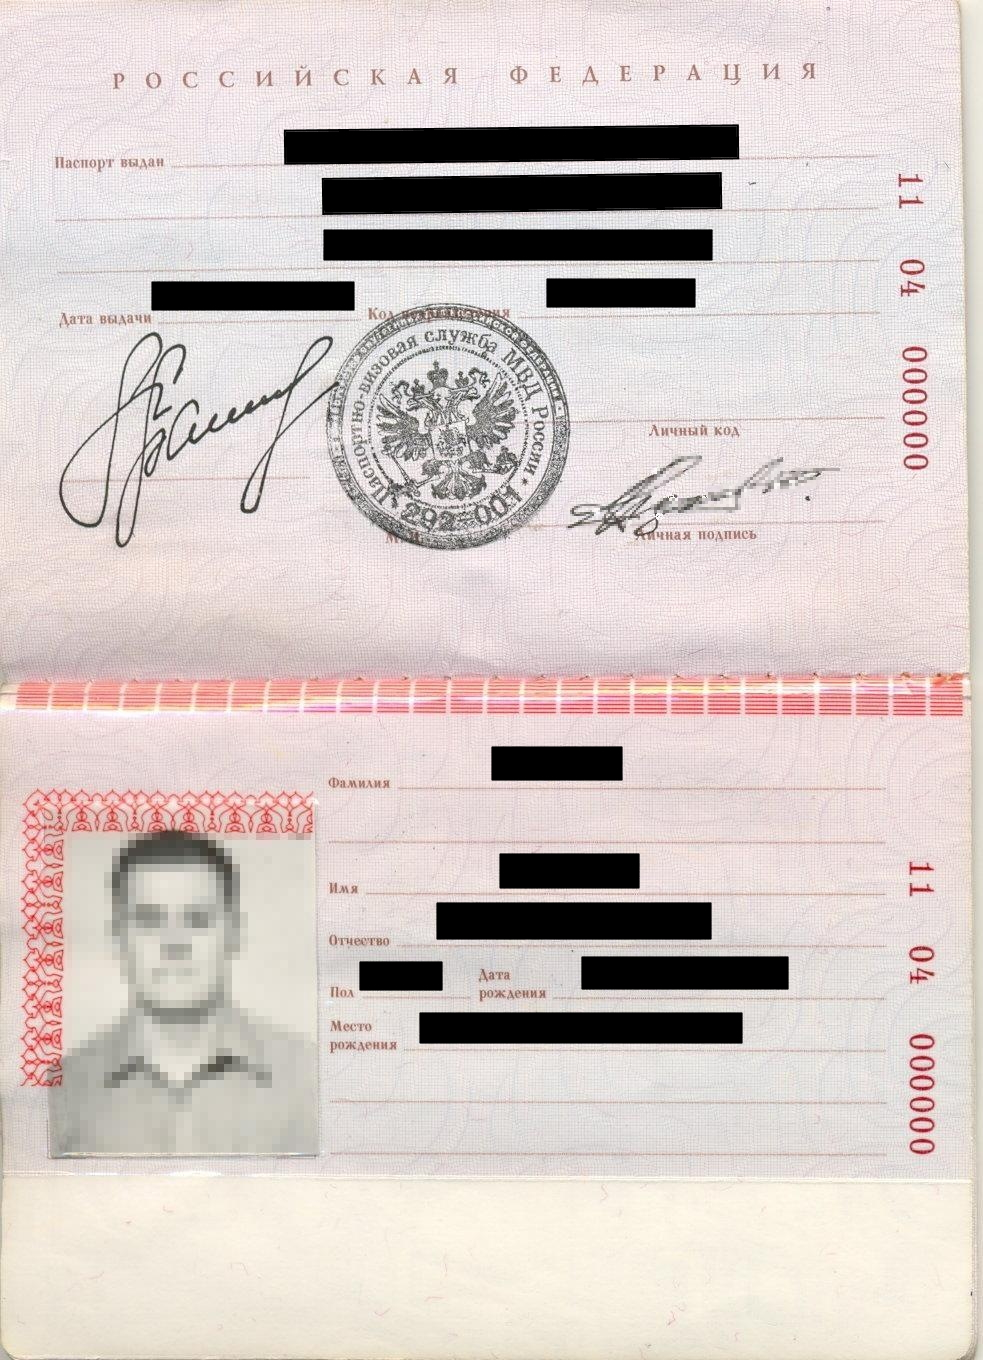
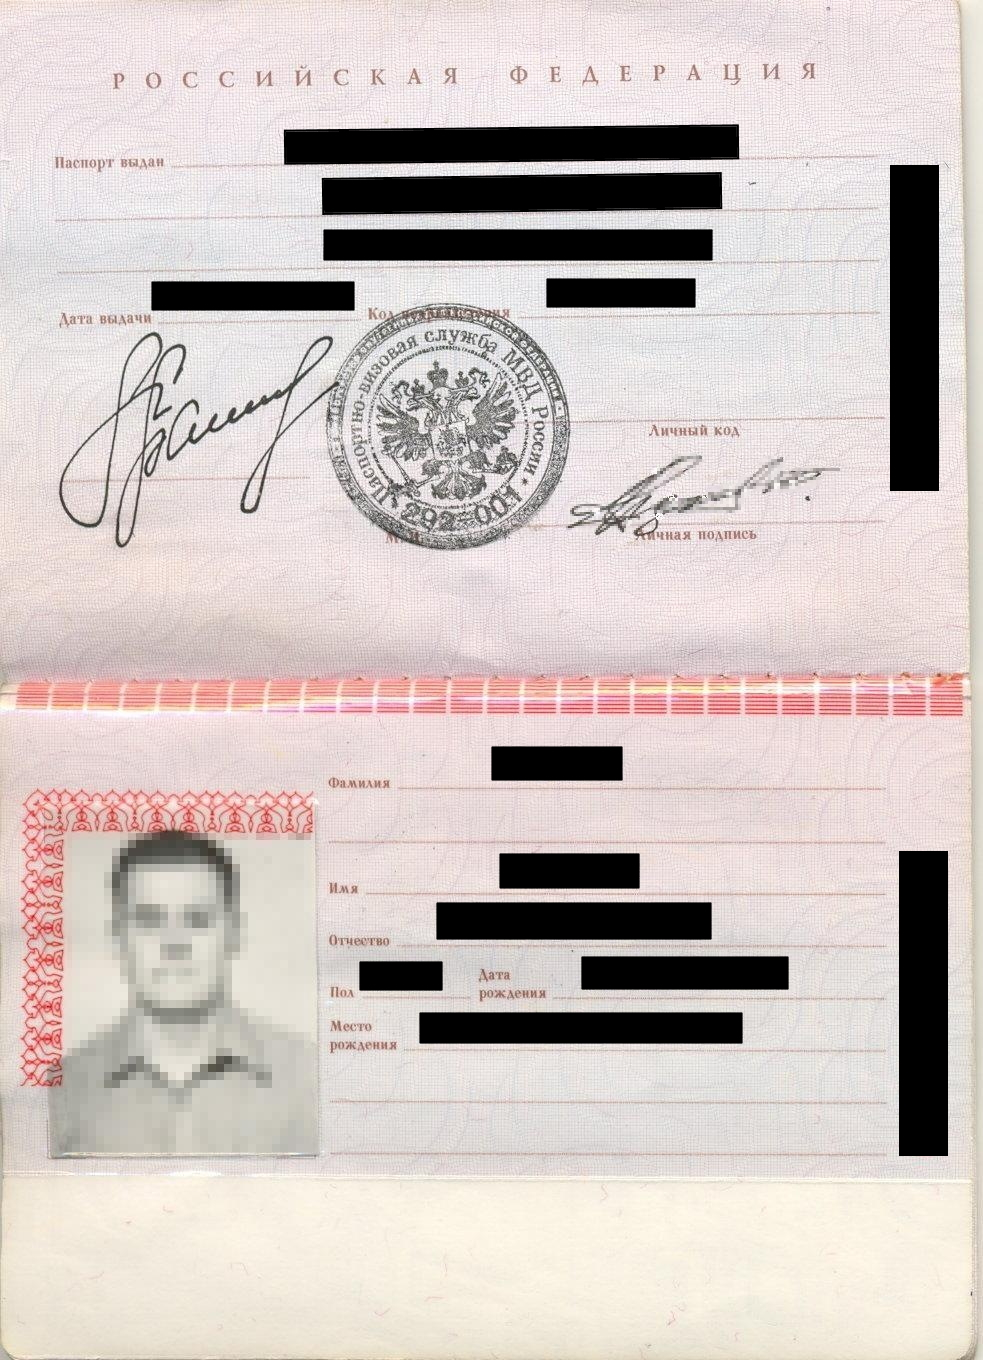
GitBook: [ru] 111 pages and 2 assets modified

Changed region(s): [[0.885, 0.1235, 0.9766, 0.3706], [0.9156, 0.6176, 0.9766, 0.8647]]

diff --git a/unitpay-management/documents-ooo.md b/unitpay-management/documents-ooo.md
@@ -48,9 +48,9 @@
 
 ## 5. Паспорт бенефициарного владельца \(первый разворот + регистрация бенефициарного владельца юридического лица/лица
 
-![&#x41F;&#x435;&#x440;&#x432;&#x44B;&#x439; &#x440;&#x430;&#x437;&#x432;&#x43E;&#x440;&#x43E;&#x442; &#x43F;&#x430;&#x441;&#x43F;&#x43E;&#x440;&#x442;&#x430; \(&#x43F;&#x440;&#x438;&#x43C;&#x435;&#x440;\)](../.gitbook/assets/pasport_rf.jpg)
+![&#x41F;&#x435;&#x440;&#x432;&#x44B;&#x439; &#x440;&#x430;&#x437;&#x432;&#x43E;&#x440;&#x43E;&#x442; &#x43F;&#x430;&#x441;&#x43F;&#x43E;&#x440;&#x442;&#x430; &#x420;&#x424; \(&#x43F;&#x440;&#x438;&#x43C;&#x435;&#x440;\)](../.gitbook/assets/pasport_rf.jpg)
 
-![&#x421;&#x442;&#x440;&#x430;&#x43D;&#x438;&#x446;&#x430; &#x440;&#x435;&#x433;&#x438;&#x441;&#x442;&#x440;&#x430;&#x446;&#x438;&#x438; \(&#x43F;&#x440;&#x438;&#x43C;&#x435;&#x440;\)](../.gitbook/assets/russia-passport-registration-scaled.jpg)
+![&#x421;&#x442;&#x440;&#x430;&#x43D;&#x438;&#x446;&#x430; &#x441; &#x440;&#x435;&#x433;&#x438;&#x441;&#x442;&#x440;&#x430;&#x446;&#x438;&#x435;&#x439; \(&#x43F;&#x440;&#x438;&#x43C;&#x435;&#x440;\)](../.gitbook/assets/russia-passport-registration-scaled.jpg)
 
 ## 6. Фотография-селфи руководителя организации или представителя по доверенности на фоне основного разворота паспорта
 

diff --git a/unitpay-management/documents-ip.md b/unitpay-management/documents-ip.md
@@ -43,9 +43,9 @@
 
 ## **3.** Паспорт ИП \(первый разворот + регистрация\)
 
-![&#x41F;&#x435;&#x440;&#x432;&#x44B;&#x439; &#x440;&#x430;&#x437;&#x432;&#x43E;&#x440;&#x43E;&#x442; &#x43F;&#x430;&#x441;&#x43F;&#x43E;&#x440;&#x442;&#x430; \(&#x43F;&#x440;&#x438;&#x43C;&#x435;&#x440;\)](../.gitbook/assets/pasport_rf.jpg)
+![&#x41F;&#x435;&#x440;&#x432;&#x44B;&#x439; &#x440;&#x430;&#x437;&#x432;&#x43E;&#x440;&#x43E;&#x442; &#x43F;&#x430;&#x441;&#x43F;&#x43E;&#x440;&#x442;&#x430; &#x420;&#x424; \(&#x43F;&#x440;&#x438;&#x43C;&#x435;&#x440;\)](../.gitbook/assets/pasport_rf.jpg)
 
-![&#x421;&#x442;&#x440;&#x430;&#x43D;&#x438;&#x446;&#x430; &#x440;&#x435;&#x433;&#x438;&#x441;&#x442;&#x440;&#x430;&#x446;&#x438;&#x438; \(&#x43F;&#x440;&#x438;&#x43C;&#x435;&#x440;\)](../.gitbook/assets/russia-passport-registration-scaled.jpg)
+![&#x421;&#x442;&#x440;&#x430;&#x43D;&#x438;&#x446;&#x430; &#x441; &#x440;&#x435;&#x433;&#x438;&#x441;&#x442;&#x440;&#x430;&#x446;&#x438;&#x435;&#x439; \(&#x43F;&#x440;&#x438;&#x43C;&#x435;&#x440;\)](../.gitbook/assets/russia-passport-registration-scaled.jpg)
 
 ## 4. Фотография-селфи индивидуального предпринимателя на фоне основного разворота паспорта
 
